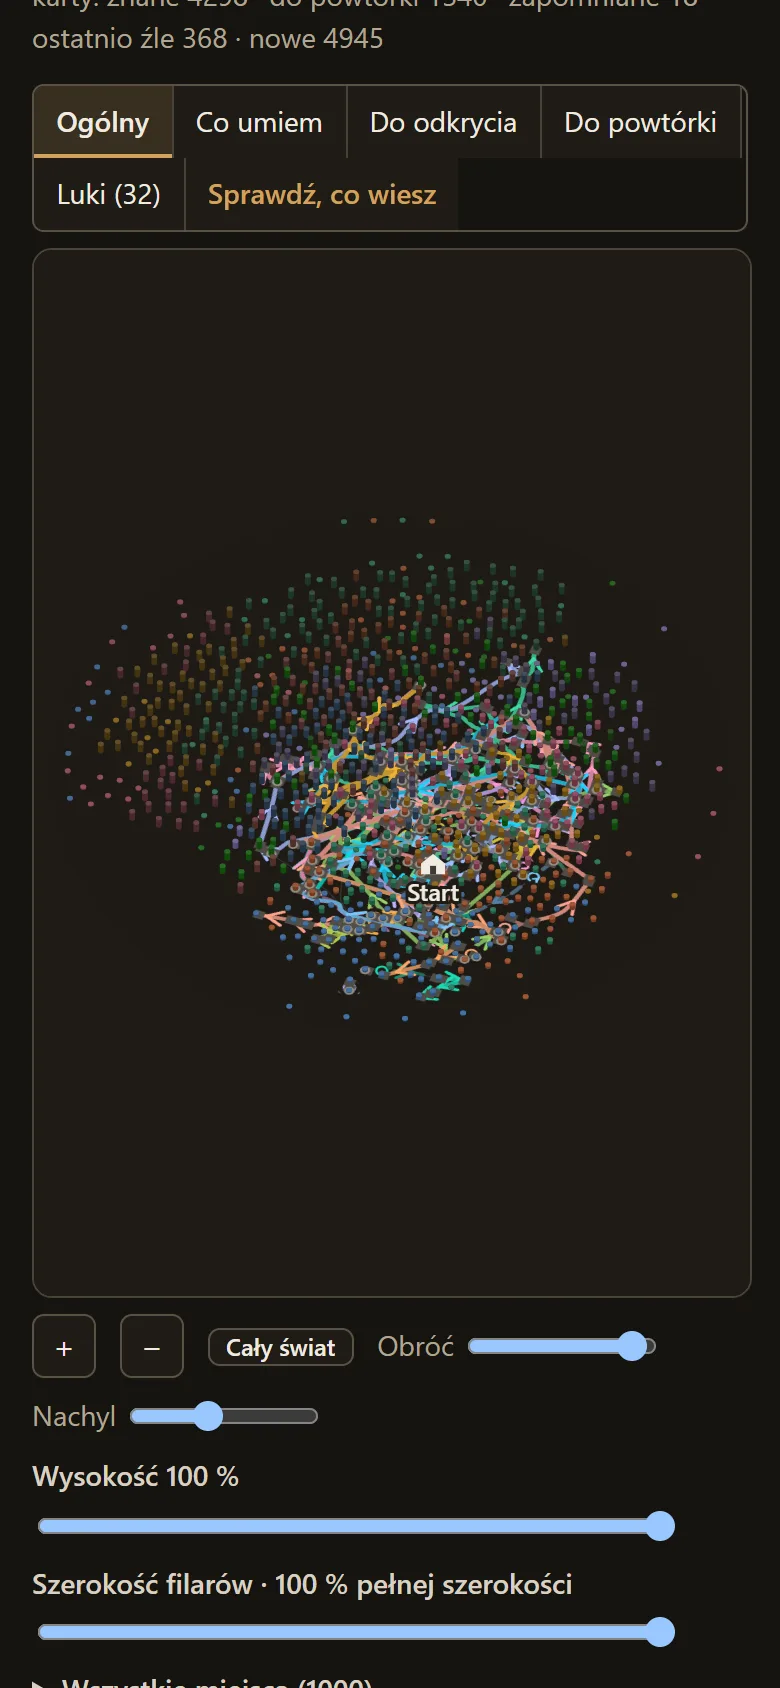
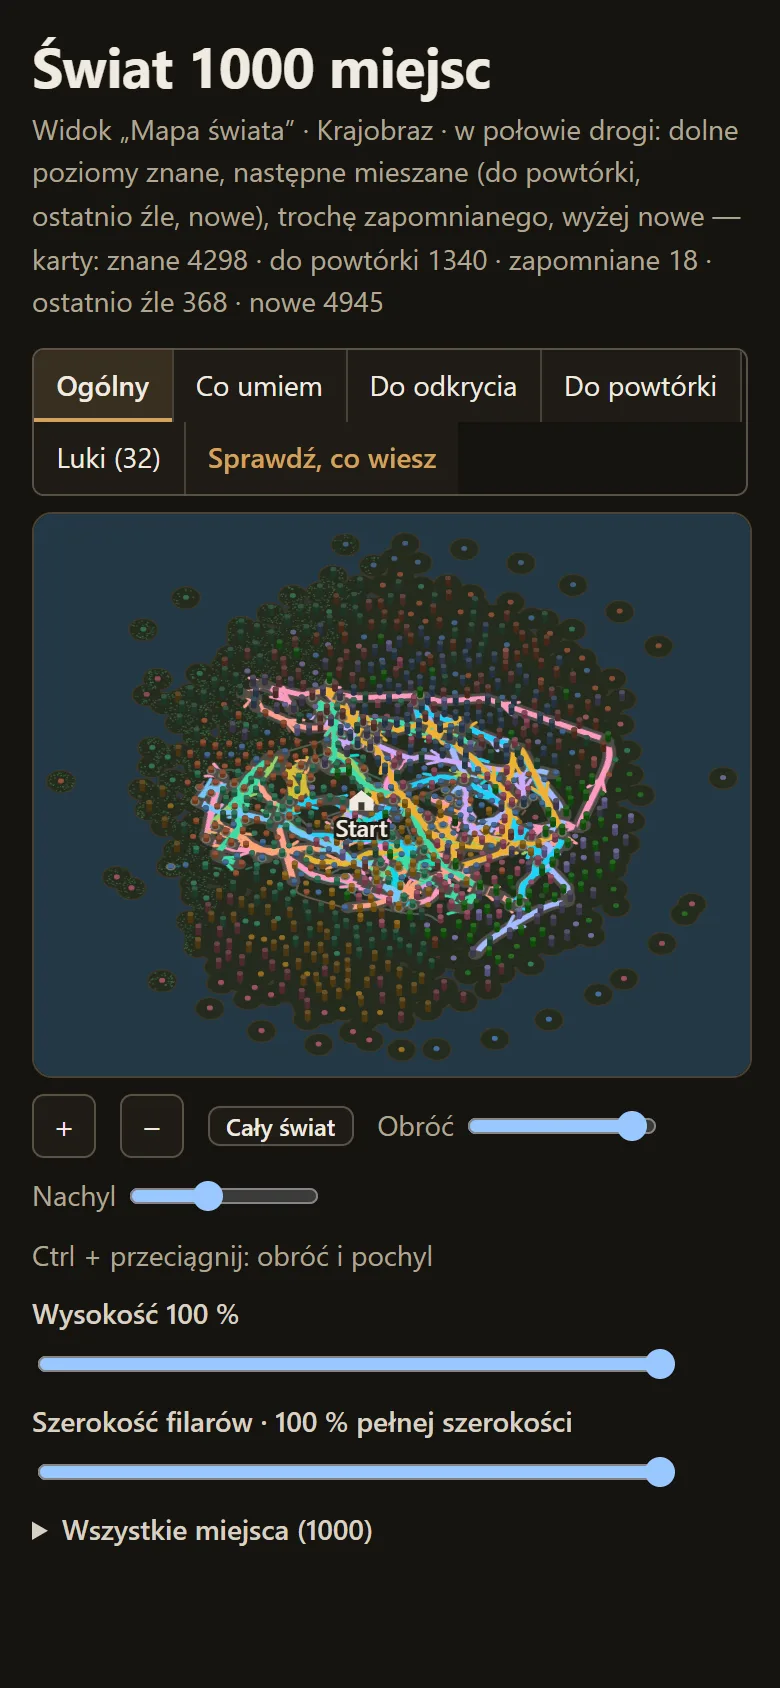
World map Step 3: report, and the retaken screenshots

diff --git a/documentation/world-map/STEP3_REPORT.md b/documentation/world-map/STEP3_REPORT.md
@@ -1,0 +1,78 @@
+# Cogita World Map — Step 3 report
+
+**Branch:** `cogita/world-map`, from `7ef54ad0` to `ace55890`.
+**Rule followed:** one commit per numbered item. For every bug, a check was first added to the matching `app-wm-*` script and seen failing on the old code, then the fix made it pass.
+
+## Summary
+
+- Every item in §1 and §2 is done. Two items were changed by later decisions of the owner (see "Owner's decisions"):
+  - §1.7 (waiting steps): its mechanism is now gone, because levels no longer have minimum gaps.
+  - §1.10 ("now" wakes at the next waiting date): there are no waiting dates any more. "Now" is refreshed when the tab becomes visible and every 10 minutes instead.
+- §3: in the app at 1440 and 1920 px the world view is wider than 50 rem, so the panel already stands beside the map. On narrower screens the panel is now a sheet over the lower part of the map.
+- The owner asked for further changes during this step (island terrain, calmer map, controls, run rules). They are in their own commits and listed below.
+- Finish (§4):
+  - all `app-wm-*` checks, `tsc`, `app:i18n` (ratchet stays at 1) and `wm-click-paths.mjs` (39/39) pass;
+  - every screenshot in `step2/` was retaken.
+
+## 1. Bugs (§1)
+
+| # | Commit | New check (script → name) | Notes |
+|---|---|---|---|
+| 1 | `2e18d9ee` | runs → "Step 3 · 1 …" (5 checks: appeared, run gate, counts, height, all-suspended place) | `suspended` reaches `LearnerInput` and the condition context. A place whose every card is suspended counts as conquered and flat. |
+| 2 | `0659ef01` | runs → "Step 3 · 2: review scope …" (in-memory base with a topic and an aspect kind) | The review scope is built from the place kinds of the base's world views. A base without a world view: levels do not affect reviews. |
+| 3 | `9b8c2d8e` | runs → "due report …" (2); learn-sync → "7" (3) | `reportDue` after `keepRun` and after any level setting is saved. The offline copy stores the reviewable keys and uses them. |
+| 4 | `bc953dc7` | model → "Step 3 · 4 …" (4) | A section is travelled when its last step, or each of its questions, was visited. "done" counts only for sections with visited steps. |
+| 5 | `2aef496b` | model → "Step 3 · 5 …" (4) | A gate after content at a stop waits for the next section that leaves the stop. A gate before all content of a branch (or before a choice) still locks that branch's first section, also one that stays at the place. Two guard checks keep that. |
+| 6 | `d72f7188` | model → "Step 3 · 6 …" (7) | Any unknown part makes the whole condition unknown (also `or`); `not` and `xor` over something unknown are never met. Tickets and run unlocks only; flows unchanged. |
+| 7 | `d980abce` | interaction → "Step 3 · 7 …"; model → window checks | The current step became the first step that can be done now. **Later superseded** by the removal of gaps (`4a950ded`): nothing waits any more. The checks now state that the timetable has no waiting step and that the current step is the run that can be done now. |
+| 8 | `c2d98d83` | geometry → "Step 3 · 8 …" (3) | `layoutPass` (in `wmStore.ts`): a full layout on request; once it is laid **and saved**, the request is reset. A failed save keeps it. |
+| 9 | `6e4a1329` | runs → "Step 3 · 9 …" (2) | The review world is kept per array of cards (identity), with a hash of the card keys as fallback — never per count. |
+| 10 | `5a3c2760` | views → "Step 3 · 10 …" (2) | Re-scoped (no waiting dates any more): "now" is a clock refreshed on `visibilitychange` and every 10 minutes, so cards that fall due show up while the map stays open. |
+| 11 | `16d7a1e6` | presentation (source); manual check on the zoom screenshots | Names are measured with `measureText`; the collision box uses the measured width. Names longer than 200 px are shortened with "…". |
+| 12 | `16d7a1e6` | same | A name that would cross the edge is moved inside the canvas; if its place is outside, it is not drawn. |
+
+## 2. Smaller items (§2)
+
+| # | Commit | Check | Notes |
+|---|---|---|---|
+| 1 | `83d3ff9f` | geometry → "Step 3 §2.1 · <world>: offset lanes keep the clearance too" (all 4 worlds; it failed on 1 000 and 5 000 places) | Each track is routed with half its bundle width added to the margin, in the grid search, the sight lines and the smoothing check. Timings: 1 000 places 1.6 s (budget 3 s); 5 000 places 15.4 s (budget 20 s). |
+| 2 | `c9d311e8` | views → "Step 3 §2.2 …" (2) | `dueOf` on a conquered place lists every card that is not known (also one that decayed below 0.1). The place panel uses `dueOf`. |
+| 3 | `4a950ded` | runs → "session …", "session (§2.3) …" | A wrong card comes back until it is right (at most 4 asks). Answers right on the third or a later ask are recorded as `laterRight`, so "any" differs from "one". |
+| 4 | `0590e754` | review guard → "Step 3 §2.4 …" | `LandscapeView` passes only `reviewable` cards to the weak marks. |
+| 5 | `930136db` | review guard → "Step 3 §2.5 …" (self-test plus each required file) | Every call of an entry point needs the rule, or its scope, within 12 lines. Sites filtered upstream are exempt per site, and each exemption checks that the upstream filter still exists: `eligible`/`spacerFor` skip `s.fixed.blocked`; `dueCards` is built with `mayReview`. |
+| 6 | `16d7a1e6` | — (text) | The bubble says "Na trasie: N odcinków · N nowych kart do biletów · N do powtórki", plus "Dwuklik: prowadź mnie tutaj". |
+| 7 | `16d7a1e6` | presentation → "camera: zoom-in stops …", "camera: zooming in near a place …" | Zoom-in stops when a pillar is a third of the view. Zooming in near a place (240 px) zooms towards it. |
+| 8 | `16d7a1e6` | presentation → "camera 1200×640 / 390×640 …", "camera: on a phone …" | "Whole world" fits the turned and tilted shape of the world, not a circle (89–90 % of the frame used). On a screen under 640 px the map height follows the shape of the world. |
+| 9 | `d37ddd5d` | — | Behaviour kept. Recorded in the guide (`weltkarte-AI.md`) and below as a deviation. |
+
+## 3. The panel in the real app (§3)
+
+I could not sign in to the real app in this session (the test database is not set up here, and production is off limits), so the width comes from the layout rules:
+- The content column is `min(100%, --wk-content + 4rem)` with `--wk-content: 90rem`, beside a 15 rem sidebar.
+- At 1440 px the world view is about 1 150 px wide (more than 50 rem = 800 px), so the panel already stands beside the map. The same holds at 1920 px.
+- Full-width Cogita screens (`.wk-full-body > .wk-card.is-whole:has(.cg-ls)`) already drop the 90 rem limit.
+
+No full-width change was needed. Below 50 rem of container width (about 1 100 px of window with the sidebar, and every phone), the panel is now a **sheet over the lower part of the map**: it sticks to the bottom of the window, is at most half its height and scrolls inside, and the map stays visible above it. The preview shows this (`step2/p3-nav.webp`). Worth a look in the signed-in app at 1100–1300 px.
+
+## 4. Owner's decisions during this step
+
+| Commit | What |
+|---|---|
+| `4a950ded` | **No minimum gap between levels.** One run raises **every** level whose rule it meets. Everything right the first time gives all levels at once and the award **"Mistrzowsko"** (★, the highest award, always reachable; shown on the run result, in the place panel and as a star on the pillar). Cards of the **same thing** (same facts, otherwise same entry and template — for example several cards drawn from one entry) are not asked again in a run once one of them is right the first time; a wrong answer covers nothing. The plan has one run step per place ("all right first time: straight to level N"). The `gapDays` setting is gone (old values are ignored), also from the guide and the import formats. |
+| `16d7a1e6`, `ace55890` | **An island:** water around, a sandy shore outside the land, land following the shape of the world, and trees that never stand on a pillar, its ring or a track (checked). **A calmer map:** only lanes that grow knowledge are prominent (open and bringing cards not yet known). Travelled lanes are thin in their line colour, idle lanes thin and grey, locked lanes dotted; locks only show when zoomed in. **Controls:** Ctrl (or the right button) + drag turns and tilts; dragging down tilts down; double-click or double-tap a pillar = "Prowadź mnie tutaj". |
+| `e189f45e` | **A clear place panel:** one next step (review, start the run, or "Prowadź mnie tutaj" with "Ucz się bezpośrednio" beside it); everything else is folded under "Więcej o tym miejscu". A click that skips the playback is judged on the frame that was shown. The click paths wait until a located point stops moving: a scrollbar appearing after the return playback moved the canvas by 12 px. |
+
+## 5. Deviations
+
+- **Height with 0 levels** (§2.9): it counts the cards not yet known (of the place and its base), not all cards of unfulfilled places. The pillar shrinks with every card learned. Kept on purpose; recorded in `templates/cogita/weltkarte-AI.md`.
+- **Waiting steps** (§1.7) and **waking at the next waiting date** (§1.10) no longer exist, because the owner removed the gaps (see §4).
+- **A gate inside a branch** (§1.5): a gate before every piece of a branch's content locks that branch's first section, even one at the place itself (not only "the next section that leaves the stop"). Otherwise such a gate would be lost.
+
+## 6. Screenshots
+
+All pictures in `step2/` were retaken from a fresh preview build. New: `bosko-desktop-dark-zoom.webp`, `p3-nav.webp` (narrow sheet with the timetable), `p5-run-ready.webp`. `rotation-1000.json`: 180 steps of rotation in the 1 000-place world, drawing 3.4 ms on average (p95 3.9 ms).
+
+## 7. Deploy
+
+- No migration.
+- `backend/Api/Library/ImportFormats.json` changed (texts only: no `gapDays`, the height note). The API needs a deploy for the MCP texts, before the frontend.
